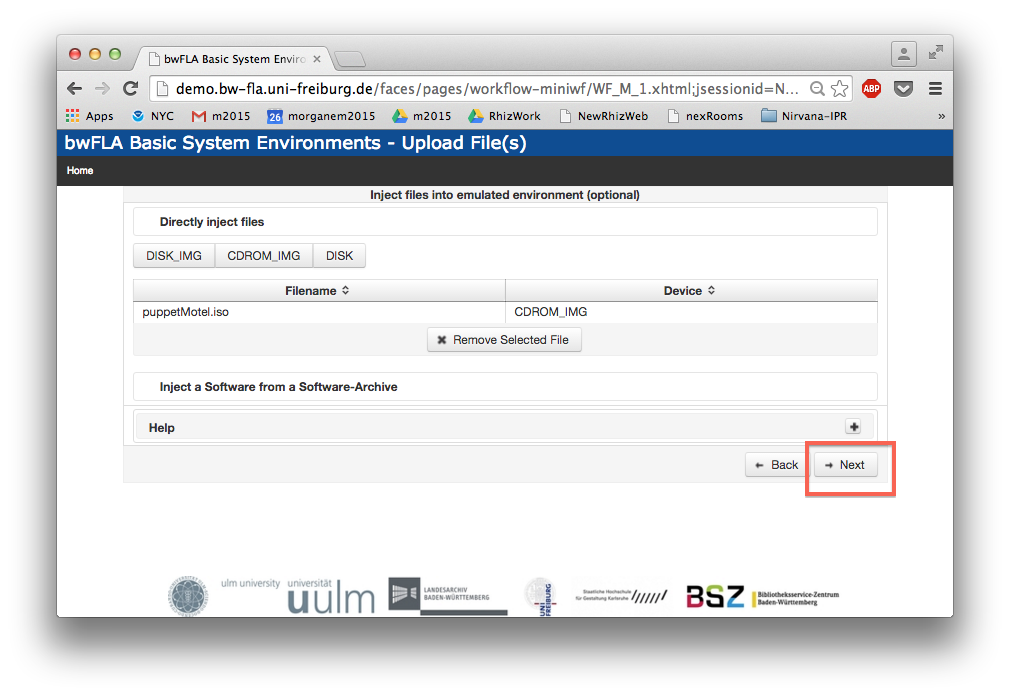
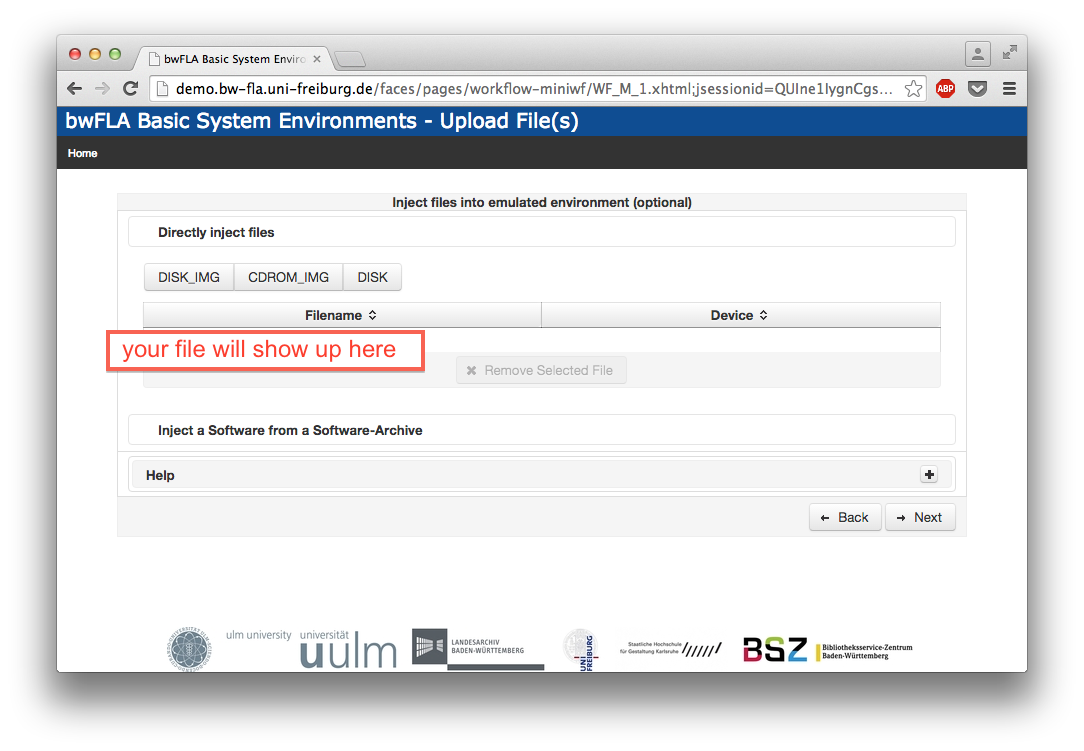
added upload  img

diff --git a/runningEaaS/readme.md b/runningEaaS/readme.md
@@ -29,7 +29,7 @@ You'll see a progress bar as the emulator starts to load.
 
 =======
 Then you'll see the emulator start up inside the browser window.
-![emulator starts up](../imgs/started-upEmulatorOS9.png)
+![emulator starts up](../imgs/puppetAccess-obj.png)
 
 
 
@@ -99,13 +99,14 @@ Then you'll see the file listed.  Click "Next" to proceed.
 
 
 =======
-It may take .  Click "Next" to proceed.
+It may take a moment for the emulator to load, during which time you'll see a mostly-empty window like this.  
+Don't panic, the emulator is loading.
 ![Click Next to continue](../imgs/file-uploaded.png)
 
 
 =======
-Then you'll see the emulator start up inside the browser window.  If you have chosen an OS that displays a desktop environment, such as Mac OS7 or 9, you'll see the CD you have uploaded on the desktop.  
-![emulator starts up](../imgs/started-upEmulatorOS9.png)
+Then you'll see the emulator start up inside the browser window.  If you have chosen an OS that displays a desktop environment, such as Mac OS7, 8, or 9, you'll see the CD you have uploaded on the desktop.  In this case, I have uploaded Puppet Motel, and can see the Puppet Motel CD on the desktop.  
+![emulator starts up](../imgs/puppetAccess-obj.png)
 
 
 
